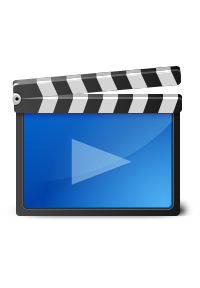
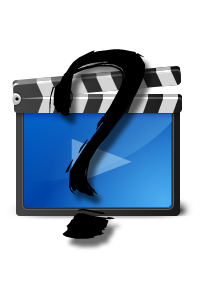
Changed images for unavailable posters

Changed region(s): [[0.24, 0.1562, 0.75, 0.875]]

diff --git a/src/amo/randomFilm/gui/panels/moviepanel/MoviePanelBasicView.java b/src/amo/randomFilm/gui/panels/moviepanel/MoviePanelBasicView.java
@@ -1,15 +1,15 @@
 package amo.randomFilm.gui.panels.moviepanel;
 
+import java.awt.BorderLayout;
 import java.awt.Dimension;
 import java.awt.Graphics;
 import java.awt.event.ActionListener;
 import java.awt.event.MouseListener;
 import java.io.File;
 
-import javax.swing.GroupLayout;
+import javax.swing.BoxLayout;
 import javax.swing.JComponent;
 import javax.swing.JPanel;
-import javax.swing.GroupLayout.Alignment;
 
 import amo.randomFilm.gui.GuiConstants;
 import amo.randomFilm.gui.util.UpdatableView;
@@ -74,7 +74,8 @@ public class MoviePanelBasicView implements UpdatableView {
     protected void layoutPanel(File file) {
         
         this.moviePanel = new MPanel();
-        GroupLayout layout = new GroupLayout(this.moviePanel);
+        // GroupLayout layout = new GroupLayout(this.moviePanel);
+        BorderLayout layout = new BorderLayout();
         this.moviePanel.setLayout(layout);
         // // We specify automatic gap insertion:
         // layout.setAutoCreateGaps(true);
@@ -90,23 +91,37 @@ public class MoviePanelBasicView implements UpdatableView {
         this.genrePanel = new GenrePanel(null);
         this.pathPanel = new PathPanel(file);
         
-        // Then, we define the groups and add the components. We establish a root group for each
-        // dimension using the setHorizontalGroup and setVerticalGroup methods. Groups are created
-        // via createSequentialGroup and createParallelGroup methods. Components are added to groups
-        // by using the addComponent method.
-        layout.setHorizontalGroup(layout.createSequentialGroup().addComponent(this.poster).addGroup(
-                layout.createParallelGroup(GroupLayout.Alignment.LEADING).addComponent(this.titlePanel).addComponent(
-                        this.starRater).addComponent(this.runtimePanel).addComponent(this.yearPanel).addComponent(
-                        this.genrePanel).addComponent(this.pathPanel)));
-        layout.setVerticalGroup(layout.createParallelGroup() //
-                .addComponent(this.poster, Alignment.CENTER) //
-                .addGroup( //
-                        layout.createSequentialGroup()//
-                                .addComponent(this.titlePanel) //
-                                .addComponent(this.starRater).addComponent(this.runtimePanel) //
-                                .addComponent(this.yearPanel) //
-                                .addComponent(this.genrePanel) //
-                                .addComponent(this.pathPanel)));
+        // // Then, we define the groups and add the components. We establish a root group for each
+        // // dimension using the setHorizontalGroup and setVerticalGroup methods. Groups are
+        // created
+        // // via createSequentialGroup and createParallelGroup methods. Components are added to
+        // groups
+        // // by using the addComponent method.
+        // layout.setHorizontalGroup(layout.createSequentialGroup().addComponent(this.poster).addGroup(
+        // layout.createParallelGroup(GroupLayout.Alignment.LEADING).addComponent(this.titlePanel).addComponent(
+        // this.starRater).addComponent(this.runtimePanel).addComponent(this.yearPanel).addComponent(
+        // this.genrePanel).addComponent(this.pathPanel)));
+        // layout.setVerticalGroup(layout.createParallelGroup() //
+        // .addComponent(this.poster, Alignment.CENTER) //
+        // .addGroup( //
+        // layout.createSequentialGroup()//
+        // .addComponent(this.titlePanel) //
+        // .addComponent(this.starRater).addComponent(this.runtimePanel) //
+        // .addComponent(this.yearPanel) //
+        // .addComponent(this.genrePanel) //
+        // .addComponent(this.pathPanel)));
+        
+        JPanel textPanel = new JPanel();
+        textPanel.setLayout(new BoxLayout(textPanel, BoxLayout.Y_AXIS));
+        textPanel.add(titlePanel);
+        textPanel.add(starRater);
+        textPanel.add(runtimePanel);
+        textPanel.add(yearPanel);
+        textPanel.add(genrePanel);
+        textPanel.add(pathPanel);
+        
+        this.moviePanel.add(poster, BorderLayout.LINE_START);
+        this.moviePanel.add(textPanel, BorderLayout.CENTER);
         
         this.moviePanel.doLayout();
         this.moviePanel.setBackground(GuiConstants.BG_COLOR);

diff --git a/src/amo/randomFilm/gui/panels/moviepanel/PosterPanel.java b/src/amo/randomFilm/gui/panels/moviepanel/PosterPanel.java
@@ -49,9 +49,7 @@ public class PosterPanel extends JPanel implements Updateable {
     private boolean centerVertically = true;
     
     public PosterPanel(Image image) {
-//        this.setPreferredSize(INITIAL_SIZE);
         this.setMinimumSize(INITIAL_SIZE);
-        // setMinimumSize(new Dimension(50, 50));
         this.setImage(image);
         this.setBackground(GuiConstants.BG_COLOR);
     }
@@ -109,8 +107,8 @@ public class PosterPanel extends JPanel implements Updateable {
         }
         
         // draw
-        g.drawImage(this.image, 0, y, currentWidth, currentHeight + y, 0, 0, this.image.getWidth(null),
-                this.image.getHeight(null), null);
+        g.drawImage(this.image, 0, y, currentWidth, currentHeight + y, 0, 0, this.image.getWidth(null), this.image
+                .getHeight(null), null);
         
     }
     
@@ -126,6 +124,18 @@ public class PosterPanel extends JPanel implements Updateable {
     
     public void setCenterVertically(boolean centerVertically) {
         this.centerVertically = centerVertically;
+    }
+    
+    @Override
+    public Dimension getPreferredSize() {
+        // calculate current aspect ratio
+        double dy = (double) this.getHeight() / this.imageHeight;
+        int currentWidth, currentHeight;
+        // logger.debug("PAINT - dx: " + dx + " / dy: " + dy + " \t-->SCALE by Y");
+        currentWidth = (int) (this.imageWidth * dy);
+        currentHeight = this.getHeight();
+        
+        return new Dimension(currentWidth, currentHeight);
     }
     
 }

diff --git a/src/amo/randomFilm/gui/GuiConstants.java b/src/amo/randomFilm/gui/GuiConstants.java
@@ -94,12 +94,14 @@ public class GuiConstants {
     
     public static final String IMAGE_BTN_PREV = "images\\BTN_PREV.png";
     
-    public static final String IMAGE_POSTER_LOADING = "images/LOADING.jpg";
+    public static final String IMAGE_POSTER_LOADING = "images/LOADING.png";
+    
+    public static final String IMAGE_POSTER_NO_AVAIL = "images/NO_IMAGE_AVAIL.png";
     
     /* =====================
      *  FONTS
      =======================*/
-    
+
     public static final Font FONT_NORMAL = new Font("Sans-Serif", Font.PLAIN, 12);
     
     public static final Font FONT_BIG_BOLD = new Font("Sans-Serif", Font.BOLD, 18);
